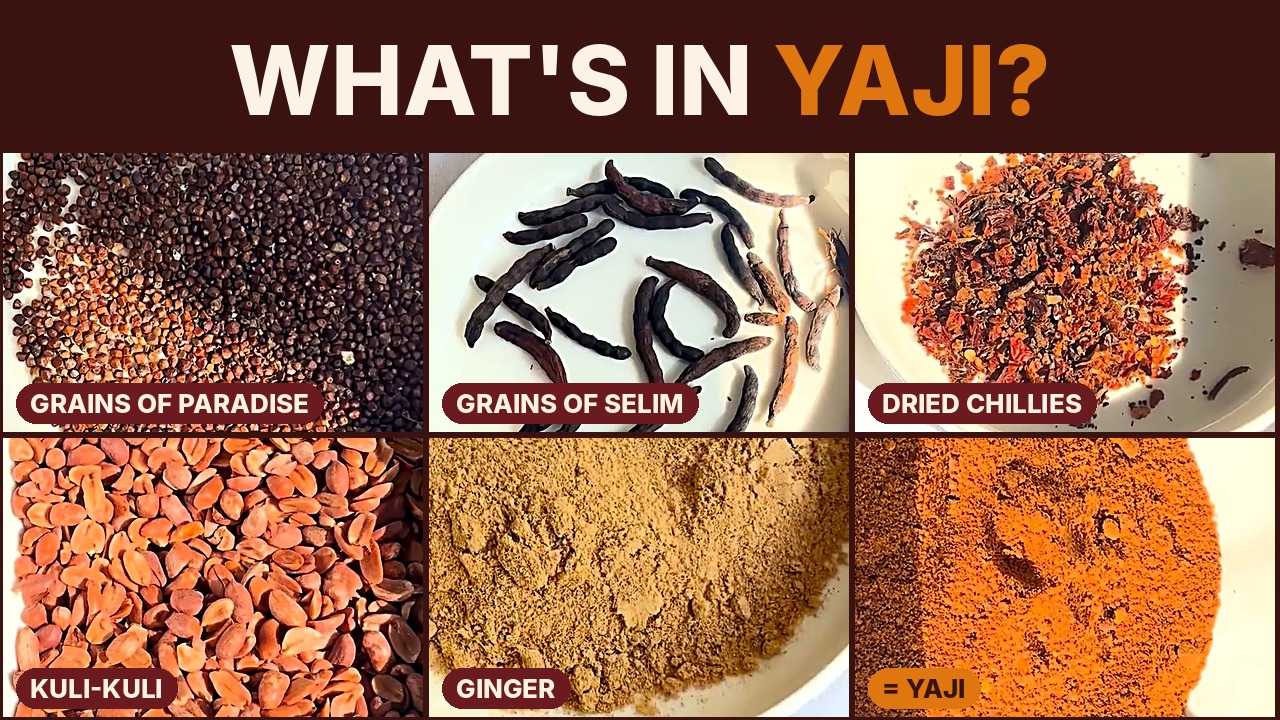
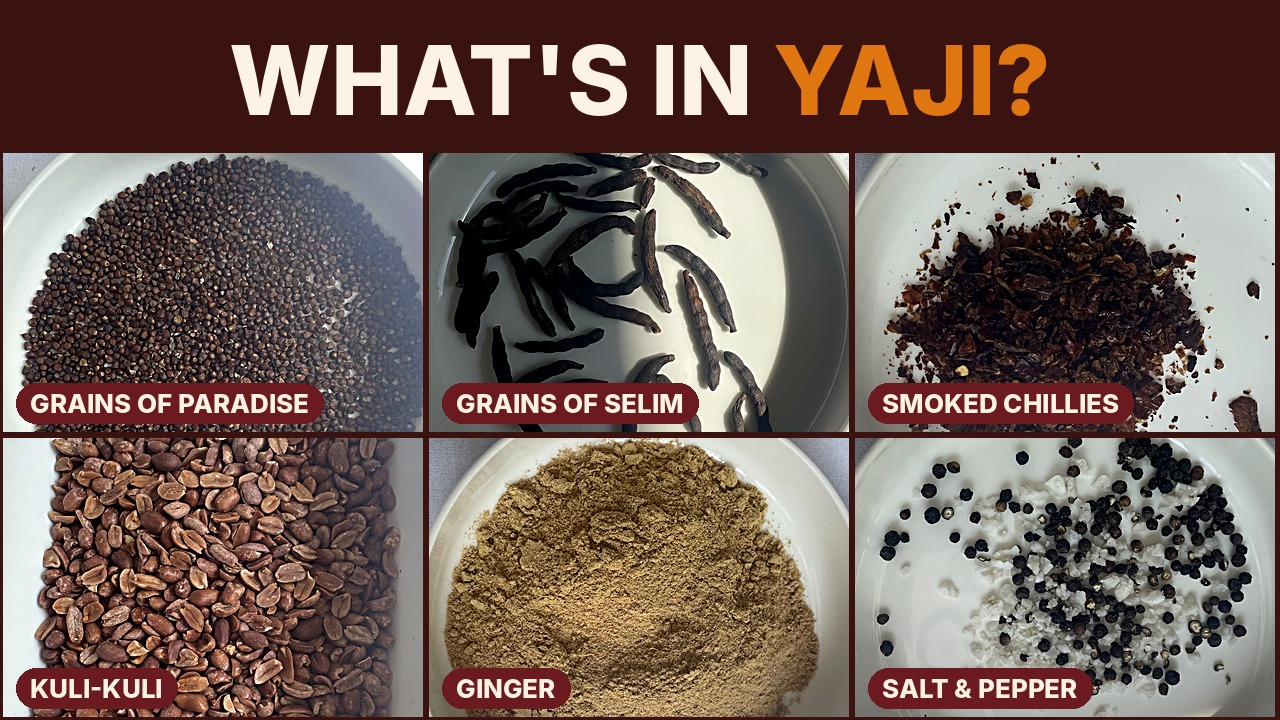
Ep01 thumbnails rebuilt at full quality from Kofi's original photos and IMG_4576
Claude-Session: https://claude.ai/code/session_018Kns7PuNF45oxePz9RxZxo

diff --git a/spicesOftheWorld/thumbnails/episode-01/make_thumbs.py b/spicesOftheWorld/thumbnails/episode-01/make_thumbs.py
@@ -4,7 +4,7 @@ from finish_v3 import font, MARIGOLD, CREAM, INK, GOLD
 from PIL import Image, ImageDraw, ImageFilter, ImageEnhance
 W,H=1280,720
 def load(t, crop=None):
-    im=Image.open(f'frames/f_{t}.png').convert('RGB')
+    im=Image.open(t if isinstance(t,str) else f'frames/f_{t}.png').convert('RGB')
     if crop: im=im.crop(crop)
     return im
 def fill(im,w,h):
@@ -26,7 +26,7 @@ def logo_bug(img):
     lg=lg.resize((int(lg.width*70/lg.height),70),Image.LANCZOS); img.alpha_composite(lg,(W-lg.width-28,H-lg.height-22))
 
 # A: skewer heap + origin claim (no face)
-a=fill(load(395,(60,40,854,480)),W,H).convert('RGBA'); grad(a,True,215,0.6)
+a=fill(load('source/IMG_4576_26s.jpg',(0,560,1080,1240)),W,H).convert('RGBA'); grad(a,True,215,0.6)
 f1=font('ExtraBold',118)
 shadow_text(a,(54,40),'THE SPICE',f1,CREAM); d=ImageDraw.Draw(a)
 x=54+d.textlength('THE ',font=f1)
@@ -35,22 +35,23 @@ shadow_text(a,(54,160),'EUROPE FORGOT',f1,CREAM)
 logo_bug(a); a.convert('RGB').save('A_spice_europe_forgot.jpg',quality=92)
 
 # B: ingredient catalogue grid + "WHAT'S IN YAJI?"
-tiles=[(41,'GRAINS OF PARADISE'),(203,'GRAINS OF SELIM'),(253,'DRIED CHILLIES'),(257.5,'KULI-KULI'),(261,'GINGER'),(269.5,'= YAJI')]
+tiles=[('source/p05.jpg','GRAINS OF PARADISE'),('source/p09.jpg','GRAINS OF SELIM'),('source/p11.jpg','SMOKED CHILLIES'),('source/p06.jpg','KULI-KULI'),('source/p07.jpg','GINGER'),('source/p08.jpg','SALT & PEPPER')]
+crops={'source/p05.jpg':(150,380,1360,1300),'source/p09.jpg':(380,640,1180,1480),'source/p11.jpg':(200,560,1150,1350),'source/p06.jpg':(250,420,1300,1450),'source/p07.jpg':(180,560,1300,1450),'source/p08.jpg':(220,640,1300,1500)}
 b=Image.new('RGBA',(W,H),(58,18,16,255)); top=150; tw,th=W//3,(H-top)//2
 for i,(t,lab) in enumerate(tiles):
-    tile=fill(load(t,(110,40,854,420)),tw-6,th-6).convert('RGBA')
+    tile=fill(load(t,crops[t]),tw-6,th-6).convert('RGBA')
     b.alpha_composite(tile,((i%3)*tw+3, top+(i//3)*th+3))
     fl=font('ExtraBold',26); bx=(i%3)*tw+16; by=top+(i//3)*th+th-52
     d=ImageDraw.Draw(b); w=d.textlength(lab,font=fl)+28
-    d.rounded_rectangle((bx,by,bx+w,by+40),20,fill=MARIGOLD if lab=='= YAJI' else (107,27,31,235))
-    d.text((bx+14,by+20),lab,font=fl,fill=INK if lab=='= YAJI' else CREAM,anchor='lm')
+    d.rounded_rectangle((bx,by,bx+w,by+40),20,fill=(107,27,31,235))
+    d.text((bx+14,by+20),lab,font=fl,fill=CREAM,anchor='lm')
 fb=font('ExtraBold',96)
 d=ImageDraw.Draw(b); t1="WHAT'S IN "; wt=d.textlength(t1+'YAJI?',font=fb); x0=(W-wt)/2
 d.text((x0,22),t1,font=fb,fill=CREAM); d.text((x0+d.textlength(t1,font=fb),22),'YAJI?',font=fb,fill=MARIGOLD)
 b.convert('RGB').save('B_whats_in_yaji.jpg',quality=92)
 
 # C: one spice, two names — suya heap with SUYA / CHINCHINGA split + Kofi face badge
-c=fill(load(398,(60,40,854,480)),W,H).convert('RGBA'); grad(c,False,230,0.55)
+c=fill(load('source/IMG_4576_26s.jpg',(0,520,1080,1200)),W,H).convert('RGBA'); grad(c,False,230,0.55)
 fc=font('ExtraBold',104); fs=font('Bold',40)
 shadow_text(c,(W/2,500),'SUYA = CHINCHINGA',fc,CREAM,anchor='mm')
 shadow_text(c,(W/2,600),'ONE SPICE  ·  TWO COUNTRIES',fs,GOLD,anchor='mm')

diff --git a/spicesOftheWorld/thumbnails/episode-01/README.md b/spicesOftheWorld/thumbnails/episode-01/README.md
@@ -9,5 +9,6 @@ Built from `competitors/channel-list.md` in the SpicesProject repo: the best per
 | `B_whats_in_yaji.jpg` | No face. Catalogue grid of the six ingredient bowls (Curious Bites format) + "WHAT'S IN YAJI?" |
 | `C_suya_chinchinga_face.jpg` | Face badge test. Skewer heap + "SUYA = CHINCHINGA" |
 
-Mock-ups only: frames come from the 480p v3 cut, so they are soft at 1280x720. Rebuild from the original
-iPhone stills/footage before upload. `make_thumbs.py` expects frames in `frames/` (`f_<seconds>.png` from v3).
+Rebuilt 2026-10-20 at full quality from Kofi's originals in `source/`: the skewer heap is a frame from
+IMG_4576 (26s, HDR tonemapped to SDR); the six ingredient tiles are his iPhone photos. Only the face badge in C
+still comes from the 480p v3 cut (`frames/f_8.png`, not committed). Run `make_thumbs.py` from this folder.
